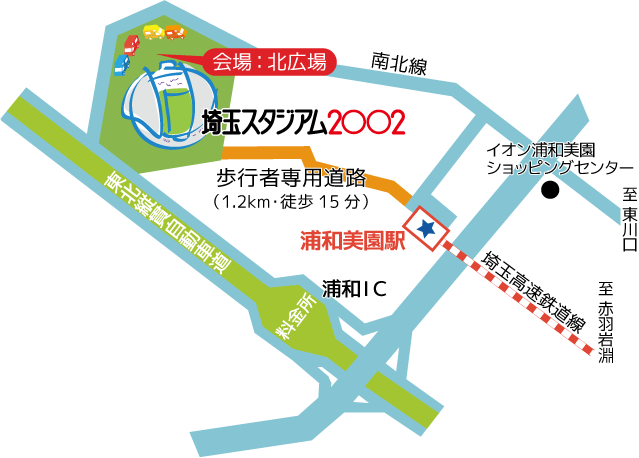
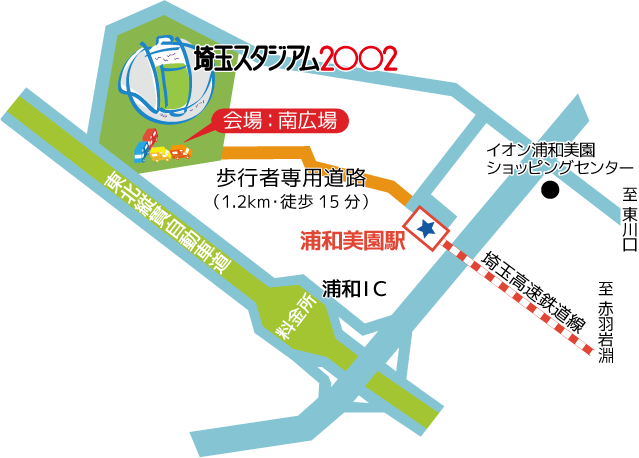
開催場所・変更＆協力・追加

Changed region(s): [[0.1784, 0.0306, 0.6839, 0.3668], [0.8028, 0.3057, 0.892, 0.3974]]

diff --git a/themes/kitchencar-gourmet-championship/template-parts/content-event.php b/themes/kitchencar-gourmet-championship/template-parts/content-event.php
@@ -5,7 +5,7 @@
 							<dt class="frontEvent__title">開催日時</dt>
 							<dd class="frontEvent__description">2016年12月4日 10:00~16:00 <small>（投票は15時まで） 雨天決行・荒天中止</small></dd>
 							<dt class="frontEvent__title">開催場所</dt>
-							<dd class="frontEvent__description">埼玉スタジアム2002 公園 北広場</dd>
+							<dd class="frontEvent__description">埼玉スタジアム2002 公園 南広場</dd>
 							<dt class="frontEvent__title">入場料</dt>
 							<dd class="frontEvent__description">無料</dd>
 							<dt class="frontEvent__title">主　催</dt>
@@ -13,6 +13,7 @@
 							<dd class="frontEvent__description">株式会社ワークストア・トウキョウドゥ</dd>
 							<dt class="frontEvent__title">協　力</dt>
 							<dd class="frontEvent__description">浦和レッドダイヤモンズ</dd>
+							<dd class="frontEvent__description">浦和レッズ後援会</dd>
 							<dd class="frontEvent__description">ＴＳＰ太陽株式会社</dd>
 						</dl>
 						<div class="frontEvent__content">
